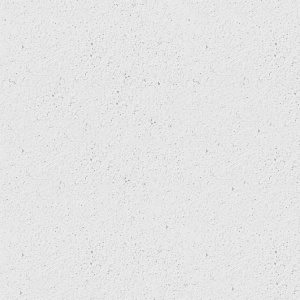
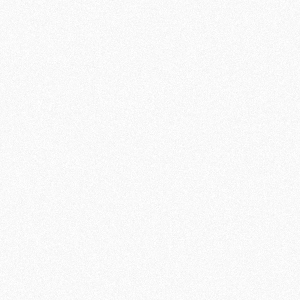
Design for People resource [list, menu, form, background]

diff --git a/app/assets/javascripts/application.js b/app/assets/javascripts/application.js
@@ -7,3 +7,40 @@
 //= require jquery
 //= require jquery_ujs
 //= require_tree .
+!function( $ ){
+
+  /* DROPDOWN PLUGIN DEFINITION
+   * ========================== */
+
+  $.fn.dropdown = function ( selector ) {
+    return this.each(function () {
+      $(this).delegate(selector || d, 'click', function (e) {
+        var li = $(this).parent('li')
+          , isActive = li.hasClass('open')
+
+        clearMenus()
+        !isActive && li.toggleClass('open')
+        return false
+      })
+    })
+  }
+
+  /* APPLY TO STANDARD DROPDOWN ELEMENTS
+   * =================================== */
+
+  var d = 'a.menu, .dropdown-toggle'
+
+  function clearMenus() {
+    $(d).parent('li').removeClass('open')
+  }
+
+  $(function () {
+    $('html').bind("click", clearMenus)
+    $('body').dropdown( '[data-dropdown] a.menu, [data-dropdown] .dropdown-toggle' )
+  })
+
+}( window.jQuery || window.ender );
+
+$(document).ready(function () {
+  $('.topbar').dropdown();
+});

diff --git a/app/assets/stylesheets/application.css b/app/assets/stylesheets/application.css
@@ -23,7 +23,7 @@ section#inner_content{
   background-color: RGB(240,240,240);
 }
 
-body{
+html, body, .container.noisy, #inner_content {
   background-image:url('noisy.png');
 }
 

diff --git a/db/seeds.rb b/db/seeds.rb
@@ -1,3 +1,4 @@
+# encoding: utf-8
 # This file should contain all the record creation needed to seed the database with its default values.
 # The data can then be loaded with the rake db:seed (or created alongside the db with db:setup).
 #
